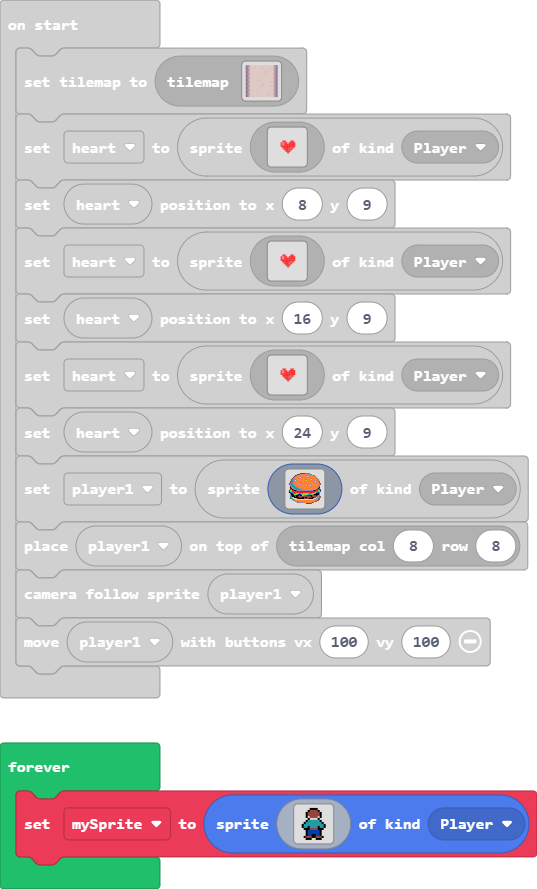
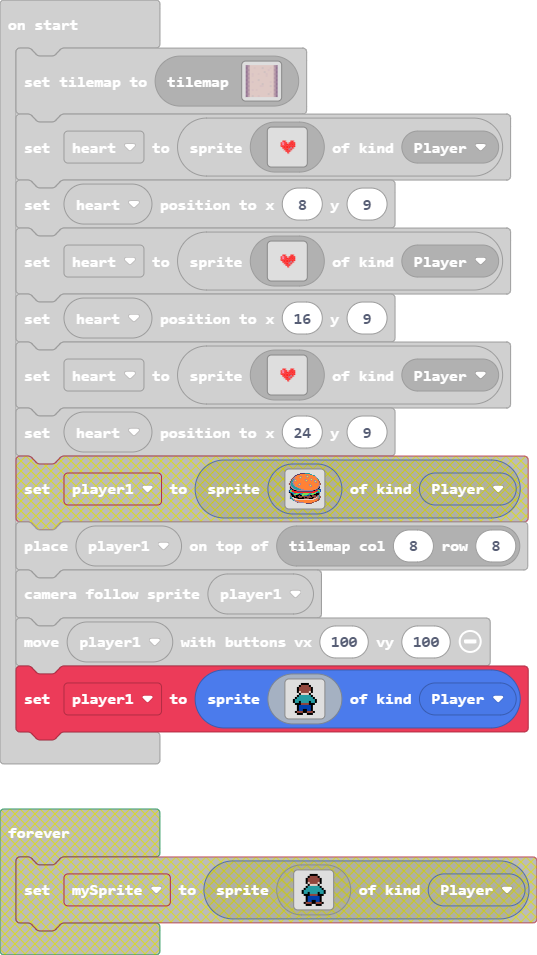
Update main.blocks, main.ts

diff --git a/main.ts b/main.ts
@@ -1,4 +1,3 @@
-let mySprite: Sprite = null
 tiles.setCurrentTilemap(tilemap`level`)
 let heart = sprites.create(assets.image`heart`, SpriteKind.Player)
 heart.setPosition(8, 9)
@@ -6,10 +5,7 @@ heart = sprites.create(assets.image`heart`, SpriteKind.Player)
 heart.setPosition(16, 9)
 heart = sprites.create(assets.image`heart`, SpriteKind.Player)
 heart.setPosition(24, 9)
-let player1 = sprites.create(assets.image`Burger`, SpriteKind.Player)
+let player1 = sprites.create(assets.image`player`, SpriteKind.Player)
 tiles.placeOnTile(player1, tiles.getTileLocation(8, 8))
 scene.cameraFollowSprite(player1)
 controller.moveSprite(player1, 100, 100)
-forever(function () {
-    mySprite = sprites.create(assets.image`player`, SpriteKind.Player)
-})
